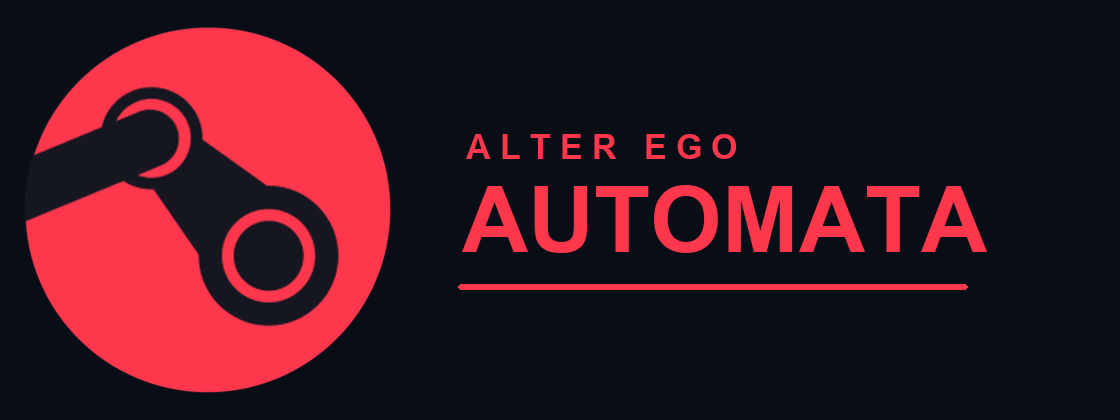
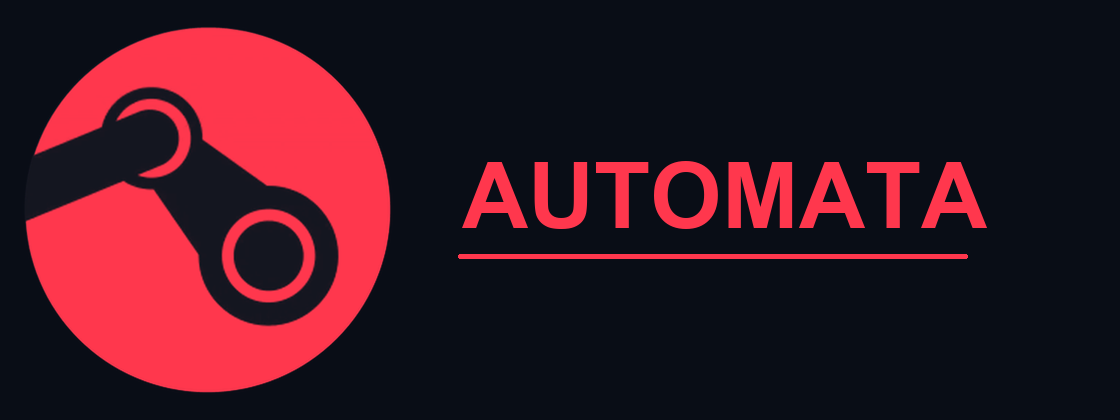
Version 1.3.2 : le nom est seulement Automata
- Retire le sous-titre Alter Ego : titre des fenetres, barre du haut,
  README et banniere.

Changed region(s): [[0.4062, 0.3095, 0.875, 0.619], [0.4062, 0.65, 0.875, 0.7119]]

diff --git a/farm.py b/farm.py
@@ -1,5 +1,5 @@
 """
-Automata · Alter Ego (farm d'heures Steam / Steam hours farm)
+Automata (farm d'heures Steam / Steam hours farm)
 --------------------------------------
 Fait tourner tes jeux Steam « à vide » : Steam croit que le jeu est lancé et
 compte le temps de jeu (et les drops de cartes), sans rien exécuter du jeu.
@@ -36,8 +36,8 @@ from pathlib import Path
 # Pillow, pystray et tkinter ne sont importés que pour la fenêtre (voir interface()) :
 # les processus de farm restent ainsi très légers.
 
-NOM, SOUS_TITRE = "Automata", "Alter Ego"   # nom affiché de l'appli
-VERSION = "1.3.1"
+NOM = "Automata"                  # nom affiché de l'appli
+VERSION = "1.3.2"
 PROJET = "https://github.com/Dekeur/steam-hours-farm"
 GELE = getattr(sys, "frozen", False)          # True dans le .exe construit avec PyInstaller
 ICI = Path(sys.executable).resolve().parent if GELE else Path(__file__).resolve().parent
@@ -1024,7 +1024,7 @@ def interface(auto: bool, apres=None) -> None:
                 LANGUE = langue_systeme()
             else:
                 self._choisir_langue()
-            r.title(f"{NOM} · {SOUS_TITRE}")
+            r.title(NOM)
             self._construire()
             self._creer_tray()
             self._recharger()
@@ -1092,7 +1092,6 @@ def interface(auto: bool, apres=None) -> None:
                   indicatorbackground=[("selected", ACCENT)])
             s.configure("Vertical.TScrollbar", background=PANNEAU, troughcolor=FOND, arrowcolor=GRIS, borderwidth=0)
             s.configure("Titre.TLabel", font=("Segoe UI Semibold", 13))
-            s.configure("Ego.TLabel", foreground=EGO, font=("Segoe UI Semibold", 8))
             s.configure("Section.TLabel", font=("Segoe UI Semibold", 11), foreground=TEXTE)
             s.configure("Gris.TLabel", foreground=GRIS)
             s.configure("Doux.TLabel", foreground=DOUX)
@@ -1131,7 +1130,7 @@ def interface(auto: bool, apres=None) -> None:
             r.minsize(1, 1)
             r.resizable(False, False)
             r.geometry(f"{int(440 * k)}x{int(300 * k)}")
-            r.title(f"{NOM}  ·  {SOUS_TITRE}")
+            r.title(NOM)
             f = ttk.Frame(r, padding=int(26 * k))
             f.pack(fill="both", expand=True)
             self._logo_choix = ImageTk.PhotoImage(dessiner_logo(int(56 * k)))
@@ -1172,7 +1171,6 @@ def interface(auto: bool, apres=None) -> None:
             self._logo_haut = ImageTk.PhotoImage(dessiner_logo(int(26 * k)))
             ttk.Label(haut, image=self._logo_haut).pack(side="left", padx=(0, int(8 * k)))
             ttk.Label(haut, text=NOM, style="Titre.TLabel").pack(side="left")
-            ttk.Label(haut, text=SOUS_TITRE.upper(), style="Ego.TLabel").pack(side="left", padx=(int(8 * k), 0), pady=(3, 0))
             self.sous_titre = ttk.Label(haut, style="Gris.TLabel")
             self.sous_titre.pack(side="left", padx=(14, 0), pady=(3, 0))
             ttk.Button(haut, text=T("↻  Recharger"), command=self._recharger).pack(side="right")
@@ -1288,7 +1286,7 @@ def interface(auto: bool, apres=None) -> None:
             for w in self.r.winfo_children():
                 w.destroy()
             self.fen_stats = self.fen_options = self.fen_succes = None
-            self.r.title(f"{NOM} · {SOUS_TITRE}")
+            self.r.title(NOM)
             self._construire()
             if self.actif:
                 self.bouton.config(text=T("■  Arrêter le farm"), style="Arret.TButton")

diff --git a/README.md b/README.md
@@ -1,8 +1,8 @@
-![Automata · Alter Ego](docs/banniere.png)
+![Automata](docs/banniere.png)
 
 # Automata
 
-*Alter Ego: it plays your Steam games for you.*
+*It plays your Steam games for you.*
 
 A small Windows app that idles your Steam games: Steam thinks the game is running and counts the playtime (trading card drops included), but the game itself never starts. The interface is in English or French: you pick the language on first launch and can change it later in Options.
 
@@ -91,7 +91,7 @@ The Achievements window starts the same kind of background process for a few sec
 
 ## En français
 
-**Automata** (alias Alter Ego) fait tourner tes jeux Steam « à vide ». Steam croit que le jeu est lancé et compte le temps de jeu, ainsi que les drops de cartes, sans que le jeu démarre. L'interface est en français ou en anglais : tu choisis au premier lancement, et tu peux changer ensuite dans **Options**.
+**Automata** fait tourner tes jeux Steam « à vide ». Steam croit que le jeu est lancé et compte le temps de jeu, ainsi que les drops de cartes, sans que le jeu démarre. L'interface est en français ou en anglais : tu choisis au premier lancement, et tu peux changer ensuite dans **Options**.
 
 ![Fenêtre principale (données de démo)](docs/capture.png)
 
